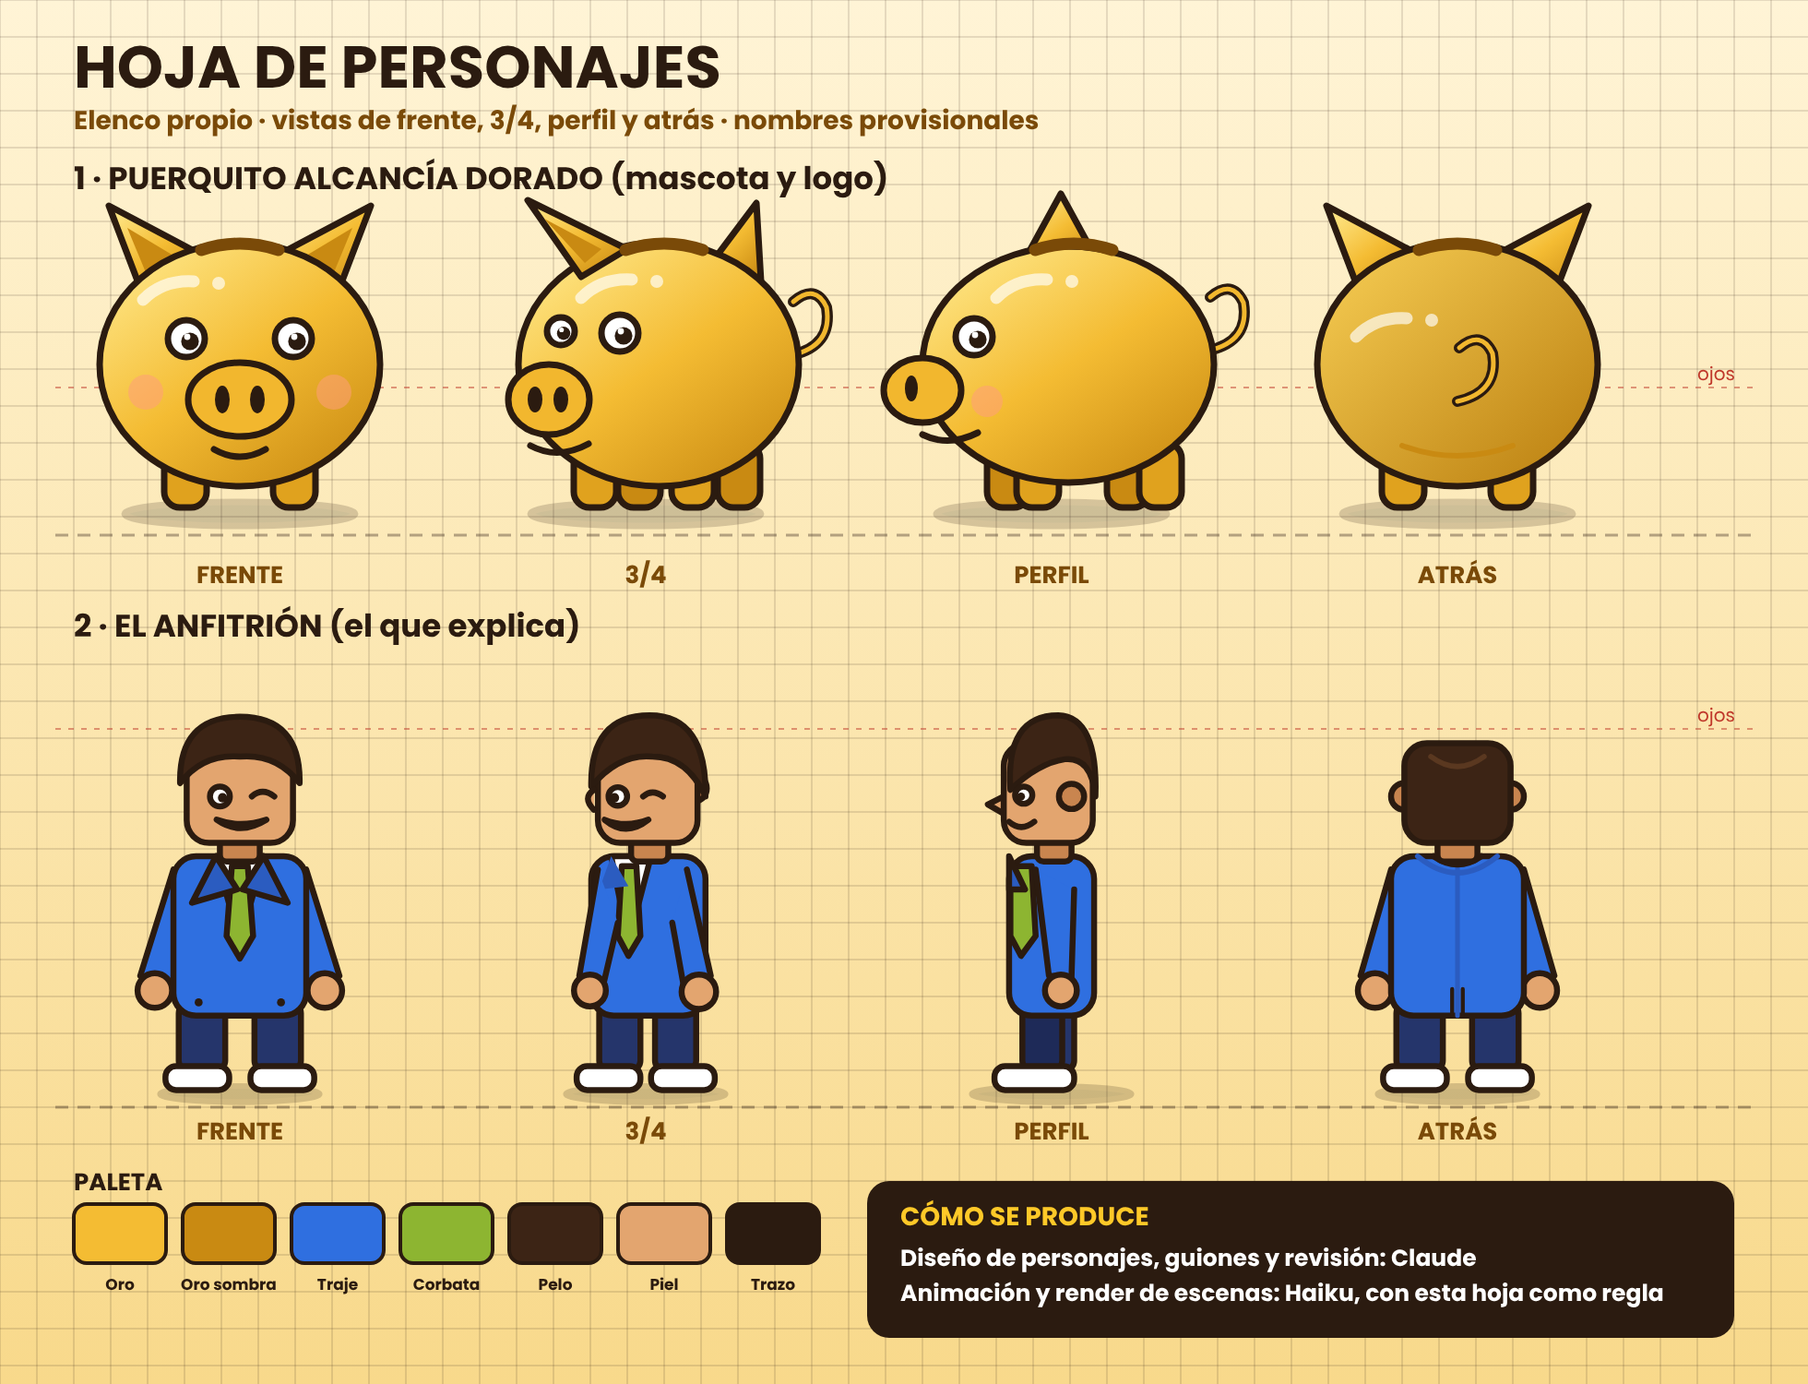
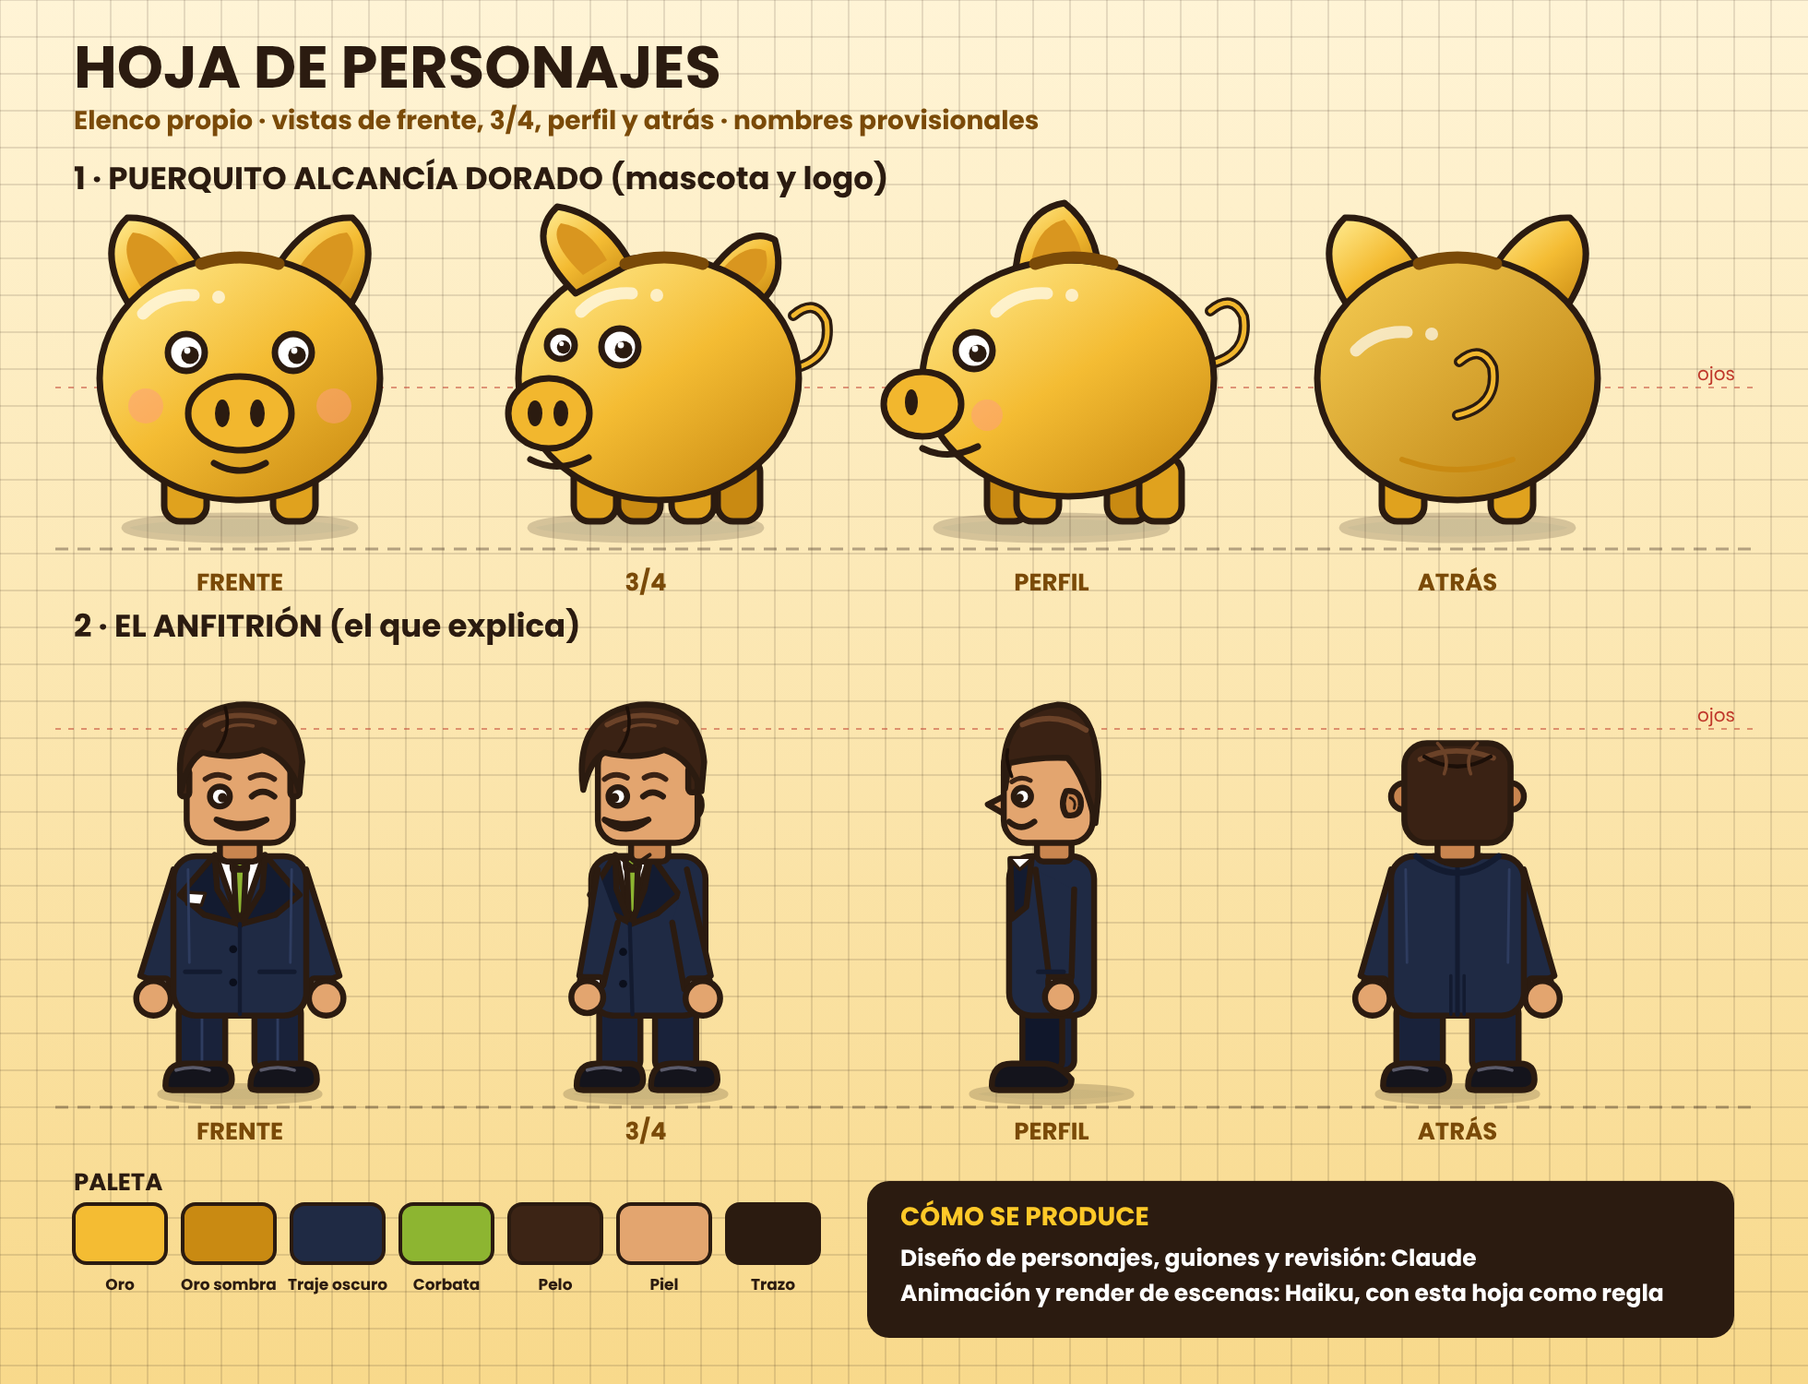
Hoja de personajes v2: orejas, traje oscuro, corbata por dentro, peinado
Claude-Session: https://claude.ai/code/session_011yrhm4PhhmsXz12GSLZFeN

diff --git a/pruebas/identidad/gen_hoja.py b/pruebas/identidad/gen_hoja.py
@@ -16,8 +16,8 @@ def pig(view):
         a(f'<path d="M{x} {y} q{45*flip} -10 {38*flip} -52 q{-12*flip} -26 {-36*flip} -6" fill="none" stroke-width="12"/><path d="M{x} {y} q{45*flip} -10 {38*flip} -52 q{-12*flip} -26 {-36*flip} -6" fill="none" stroke="#F2B72E" stroke-width="5"/>')
     if view=='front':
         leg(-82);leg(36)
-        a('<path d="M-105 -75 L-142 -172 L-40 -118 Z" fill="url(#gold)"/><path d="M-100 -95 L-122 -148 L-72 -118 Z" fill="#C98A12" stroke="none"/>')
-        a('<path d="M105 -75 L142 -172 L40 -118 Z" fill="url(#gold)"/><path d="M100 -95 L122 -148 L72 -118 Z" fill="#C98A12" stroke="none"/>')
+        a('<path d="M-114 -70 Q-160 -138 -122 -174 Q-72 -176 -36 -114 Z" fill="url(#gold)"/><path d="M-104 -94 Q-134 -138 -116 -158 Q-88 -156 -64 -120 Z" fill="#D9961F" stroke="none"/>')
+        a('<path d="M114 -70 Q160 -138 122 -174 Q72 -176 36 -114 Z" fill="url(#gold)"/><path d="M104 -94 Q134 -138 116 -158 Q88 -156 64 -120 Z" fill="#D9961F" stroke="none"/>')
         a('<ellipse cx="0" cy="0" rx="152" ry="132" fill="url(#gold)"/>')
         slot(0); shine(-105,-70)
         a('<circle cx="-102" cy="30" r="19" fill="#FF9E7A" opacity=".55" stroke="none"/><circle cx="102" cy="30" r="19" fill="#FF9E7A" opacity=".55" stroke="none"/>')
@@ -26,10 +26,10 @@ def pig(view):
         a('<path d="M-28 92 Q0 108 28 92" fill="none"/>')
     elif view=='tq':
         leg(-30,True);leg(78,True);leg(-78);leg(28)
-        a('<path d="M60 -95 L120 -175 L125 -90 Z" fill="url(#gold)"/>')
+        a('<path d="M58 -98 Q104 -170 140 -150 Q152 -108 126 -84 Z" fill="url(#gold)"/><path d="M72 -104 Q104 -150 130 -138 Q136 -114 118 -100 Z" fill="#D9961F" stroke="none"/>')
         tail(158,-10)
         a('<ellipse cx="14" cy="0" rx="152" ry="132" fill="url(#gold)"/>')
-        a('<path d="M-70 -95 L-128 -178 L-20 -125 Z" fill="url(#gold)"/><path d="M-66 -110 L-110 -158 L-48 -125 Z" fill="#C98A12" stroke="none"/>')
+        a('<path d="M-76 -92 Q-134 -150 -96 -186 Q-44 -178 -16 -124 Z" fill="url(#gold)"/><path d="M-68 -112 Q-108 -150 -92 -168 Q-62 -164 -42 -128 Z" fill="#D9961F" stroke="none"/>')
         slot(20); shine(-70,-72)
         a('<circle cx="-80" cy="38" r="18" fill="#FF9E7A" opacity=".55" stroke="none"/>')
         eye(-92,-36,15); eye(-28,-34,20)
@@ -38,7 +38,7 @@ def pig(view):
     elif view=='side':
         leg(60,True);leg(-70,True);leg(95);leg(-38)
         tail(170,-15)
-        a('<path d="M-30 -112 L10 -185 L52 -108 Z" fill="url(#gold)"/>')
+        a('<path d="M-40 -106 Q-36 -182 14 -190 Q52 -160 52 -104 Z" fill="url(#gold)"/><path d="M-24 -112 Q-20 -164 14 -172 Q34 -150 36 -112 Z" fill="#D9961F" stroke="none"/>')
         a('<ellipse cx="18" cy="0" rx="158" ry="128" fill="url(#gold)"/>')
         a('<ellipse cx="-140" cy="28" rx="42" ry="35" fill="#F2B72E"/><ellipse cx="-152" cy="26" rx="7" ry="14" fill="'+OL+'" stroke="none"/>')
         slot(24); shine(-60,-72)
@@ -47,7 +47,7 @@ def pig(view):
         a('<path d="M-140 76 Q-112 90 -80 74" fill="none"/>')
     elif view=='back':
         leg(-82);leg(36)
-        a('<path d="M-105 -75 L-142 -172 L-40 -118 Z" fill="url(#gold)"/><path d="M105 -75 L142 -172 L40 -118 Z" fill="url(#gold)"/>')
+        a('<path d="M-114 -70 Q-160 -138 -122 -174 Q-72 -176 -36 -114 Z" fill="url(#gold)"/><path d="M114 -70 Q160 -138 122 -174 Q72 -176 36 -114 Z" fill="url(#gold)"/>')
         a('<ellipse cx="0" cy="0" rx="152" ry="132" fill="url(#gold2)"/>')
         slot(0); shine(-110,-30)
         tail(0,40,1)
@@ -56,64 +56,92 @@ def pig(view):
 
 def man(view):
     s=[];a=s.append
-    SK='#E3A56F';SKD='#C9854F';HR='#3C2415';SU='#2F6FE0';SUD='#2B5CC0';TI='#8DB531';TR='#25356B'
+    SK='#E3A56F';SKD='#C9854F';HR='#3A2214';HRL='#6B4228'
+    SU='#1F2A44';SUD='#131B30';SUL='#2E3C5F';TI='#8DB531';TR='#19223A';SH='#14141C'
     a('<ellipse cx="0" cy="8" rx="120" ry="12" fill="#000" opacity=".18"/>')
-    def shoes(x1,x2,dx=0):
-        a(f'<rect x="{x1}" y="-34" width="96" height="36" rx="16" fill="#fff"/><rect x="{x2}" y="-34" width="96" height="36" rx="16" fill="#fff"/>')
+    def shoes(x1,x2):
+        a(f'<path d="M{x1} -4 Q{x1} -38 {x1+30} -38 L{x1+78} -38 Q{x1+100} -38 {x1+100} -14 Q{x1+100} 2 {x1+80} 2 L{x1+10} 2 Q{x1} 2 {x1} -4Z" fill="{SH}"/>')
+        a(f'<path d="M{x2} -4 Q{x2} -38 {x2+30} -38 L{x2+78} -38 Q{x2+100} -38 {x2+100} -14 Q{x2+100} 2 {x2+80} 2 L{x2+10} 2 Q{x2} 2 {x2} -4Z" fill="{SH}"/>')
+        a(f'<path d="M{x1+16} -28 q26 -8 50 0" stroke="#5A5A6A" stroke-width="5" fill="none"/><path d="M{x2+16} -28 q26 -8 50 0" stroke="#5A5A6A" stroke-width="5" fill="none"/>')
+    def cuff(x,y):
+        a(f'<rect x="{x-17}" y="{y-8}" width="34" height="16" rx="5" fill="#fff"/>')
+    def hair_front(dx=0):
+        a(f'<path d="M{-88+dx} -450 Q{-104+dx} -566 {-4+dx} -578 Q{86+dx} -584 {94+dx} -492 L{90+dx} -448 Q{74+dx} -498 {34+dx} -510 Q{-8+dx} -494 {-56+dx} -506 Q{-78+dx} -494 {-88+dx} -450Z" fill="{HR}"/>')
+        a(f'<path d="M{-52+dx} -548 Q{-6+dx} -574 {52+dx} -552" stroke="{HRL}" stroke-width="8" fill="none"/>')
+        a(f'<path d="M{-26+dx} -540 Q{-8+dx} -552 {20+dx} -546" stroke="{HRL}" stroke-width="5" fill="none"/>')
+        a(f'<path d="M{-22+dx} -574 Q{-12+dx} -540 {-34+dx} -508" stroke="#1C0F08" stroke-width="5" fill="none"/>')
     if view=='front':
         a(f'<rect x="-92" y="-128" width="70" height="100" rx="14" fill="{TR}"/><rect x="22" y="-128" width="70" height="100" rx="14" fill="{TR}"/>')
+        a(f'<path d="M-57 -120 L-57 -34 M57 -120 L57 -34" stroke="{SUL}" stroke-width="4" fill="none"/>')
         shoes(-112,16)
-        a(f'<path d="M-100 -330 L-150 -170 L-100 -150 L-70 -250" fill="{SU}"/><circle cx="-128" cy="-148" r="26" fill="{SK}"/>')
-        a(f'<path d="M100 -330 L150 -170 L100 -150 L70 -250" fill="{SU}"/><circle cx="128" cy="-148" r="26" fill="{SK}"/>')
+        a(f'<path d="M-100 -330 L-150 -170 L-100 -150 L-70 -250" fill="{SU}"/>'); cuff(-124,-158); a(f'<circle cx="-130" cy="-136" r="26" fill="{SK}"/>')
+        a(f'<path d="M100 -330 L150 -170 L100 -150 L70 -250" fill="{SU}"/>'); cuff(124,-158); a(f'<circle cx="130" cy="-136" r="26" fill="{SK}"/>')
         a(f'<rect x="-100" y="-350" width="200" height="240" rx="34" fill="{SU}"/>')
-        a(f'<path d="M-36 -350 L0 -220 L36 -350 Z" fill="#fff"/><path d="M-12 -335 L12 -335 L20 -230 L0 -196 L-20 -230 Z" fill="{TI}"/>')
-        a(f'<path d="M-36 -350 L-72 -280 L-4 -300 Z" fill="{SUD}"/><path d="M36 -350 L72 -280 L4 -300 Z" fill="{SUD}"/>')
-        a(f'<circle cx="-62" cy="-130" r="6" fill="{OL}" stroke="none"/><circle cx="62" cy="-130" r="6" fill="{OL}" stroke="none"/>')
+        a(f'<path d="M-36 -350 L0 -246 L36 -350 Z" fill="#fff"/>')
+        a(f'<rect x="-11" y="-348" width="22" height="22" rx="6" fill="{TI}"/><path d="M-9 -330 L9 -330 L6 -266 L0 -254 L-6 -266 Z" fill="{TI}"/>')
+        a(f'<path d="M-38 -352 L-90 -292 L-54 -262 L-2 -248 L-34 -300 Z" fill="{SUD}"/><path d="M38 -352 L90 -292 L54 -262 L2 -248 L34 -300 Z" fill="{SUD}"/>')
+        a(f'<path d="M0 -248 L0 -112" stroke="{SUD}" stroke-width="6" fill="none"/><circle cx="-10" cy="-210" r="6" fill="#0B0F1C" stroke="none"/><circle cx="-10" cy="-160" r="6" fill="#0B0F1C" stroke="none"/>')
+        a(f'<path d="M-82 -176 L-30 -176" stroke="{SUD}" stroke-width="7" fill="none"/><path d="M30 -176 L82 -176" stroke="{SUD}" stroke-width="7" fill="none"/>')
+        a(f'<path d="M-82 -296 L-52 -294 L-58 -276 L-80 -278 Z" fill="#fff" stroke-width="5"/>')
+        a(f'<path d="M-78 -330 L-76 -190 M78 -330 L76 -190" stroke="{SUL}" stroke-width="4" fill="none"/>')
         a(f'<rect x="-30" y="-382" width="60" height="40" rx="10" fill="{SKD}"/>')
+        a(f'<path d="M-36 -352 L0 -332 L36 -352" fill="none" stroke-width="6"/>')
         a(f'<rect x="-80" y="-520" width="160" height="150" rx="34" fill="{SK}"/>')
-        a(f'<path d="M-90 -460 Q-92 -560 0 -560 Q92 -560 90 -460 Q55 -505 0 -500 Q-55 -505 -90 -460Z" fill="{HR}"/>')
+        a(f'<rect x="-90" y="-482" width="14" height="42" rx="6" fill="{HR}"/><rect x="76" y="-482" width="14" height="42" rx="6" fill="{HR}"/>')
+        hair_front()
+        a(f'<path d="M-52 -466 q18 -12 36 -2" fill="none" stroke="{HR}" stroke-width="8"/><path d="M16 -468 q18 -10 36 2" fill="none" stroke="{HR}" stroke-width="8"/>')
         a(f'<circle cx="-30" cy="-440" r="15" fill="#fff"/><circle cx="-26" cy="-438" r="7" fill="{OL}" stroke="none"/><path d="M18 -440 q16 -14 34 0" fill="none"/>')
         a(f'<path d="M-35 -405 Q0 -380 40 -405 Q0 -392 -35 -405Z" fill="#fff"/>')
     elif view=='tq':
         a(f'<rect x="-70" y="-128" width="62" height="100" rx="14" fill="{TR}"/><rect x="14" y="-128" width="62" height="100" rx="14" fill="{TR}"/>')
         shoes(-104,8)
         a(f'<rect x="-82" y="-350" width="172" height="240" rx="34" fill="{SU}"/>')
-        a(f'<path d="M-52 -350 L-26 -220 L8 -350 Z" fill="#fff"/><path d="M-36 -335 L-14 -335 L-8 -230 L-26 -200 L-42 -230 Z" fill="{TI}"/>')
-        a(f'<path d="M-52 -350 L-70 -300 L-26 -305 Z" fill="{SUD}" stroke="none"/>')
-        a(f'<path d="M62 -330 L98 -170 L58 -150 L40 -250" fill="{SU}"/><circle cx="80" cy="-146" r="26" fill="{SK}"/>')
-        a(f'<path d="M-72 -330 L-100 -170 L-64 -156 L-42 -250" fill="{SU}"/><circle cx="-84" cy="-148" r="24" fill="{SK}"/>')
+        a(f'<path d="M-44 -350 L-24 -250 L6 -350 Z" fill="#fff"/>')
+        a(f'<rect x="-30" y="-348" width="20" height="20" rx="6" fill="{TI}"/><path d="M-28 -330 L-12 -330 L-14 -268 L-20 -256 L-26 -268 Z" fill="{TI}"/>')
+        a(f'<path d="M-46 -352 L-84 -292 L-52 -264 L-24 -250 L-44 -300 Z" fill="{SUD}"/><path d="M8 -352 L50 -292 L18 -264 L-22 -248 L-2 -300 Z" fill="{SUD}"/>')
+        a(f'<path d="M-24 -248 L-20 -112" stroke="{SUD}" stroke-width="6" fill="none"/><circle cx="-34" cy="-206" r="6" fill="#0B0F1C" stroke="none"/><circle cx="-34" cy="-158" r="6" fill="#0B0F1C" stroke="none"/>')
+        a(f'<path d="M62 -330 L98 -170 L58 -150 L40 -250" fill="{SU}"/>'); cuff(80,-158); a(f'<circle cx="86" cy="-136" r="26" fill="{SK}"/>')
+        a(f'<path d="M-72 -330 L-100 -170 L-64 -156 L-42 -250" fill="{SU}"/>'); cuff(-82,-160); a(f'<circle cx="-88" cy="-138" r="24" fill="{SK}"/>')
         a(f'<rect x="-22" y="-382" width="56" height="40" rx="10" fill="{SKD}"/>')
-        a(f'<circle cx="72" cy="-452" r="20" fill="{SKD}"/>')
+        a(f'<path d="M-44 -352 L-20 -334 L6 -352" fill="none" stroke-width="6"/>')
+        a(f'<path d="M64 -444 q22 -4 20 20 q-2 20 -22 14Z" fill="{SKD}"/>')
         a(f'<rect x="-72" y="-520" width="150" height="150" rx="34" fill="{SK}"/>')
-        a(f'<path d="M-82 -455 Q-84 -562 6 -562 Q92 -562 90 -440 Q62 -500 10 -500 Q-40 -505 -82 -455Z" fill="{HR}"/>')
+        a(f'<rect x="64" y="-486" width="14" height="40" rx="6" fill="{HR}"/>')
+        hair_front(-6)
+        a(f'<path d="M-62 -466 q16 -12 34 -2" fill="none" stroke="{HR}" stroke-width="8"/><path d="M-2 -468 q16 -10 32 2" fill="none" stroke="{HR}" stroke-width="8"/>')
         a(f'<circle cx="-42" cy="-440" r="14" fill="#fff"/><circle cx="-47" cy="-438" r="7" fill="{OL}" stroke="none"/><path d="M-4 -440 q14 -12 30 0" fill="none"/>')
         a(f'<path d="M-62 -405 Q-30 -378 4 -405 Q-30 -392 -62 -405Z" fill="#fff"/>')
-        a(f'<path d="M-78 -450 q-18 12 0 30" fill="{SK}"/>')
     elif view=='side':
-        a(f'<rect x="-28" y="-128" width="62" height="100" rx="14" fill="{TR}"/><rect x="-44" y="-128" width="60" height="100" rx="14" fill="#1E2A58"/>')
-        a(f'<rect x="-86" y="-34" width="120" height="36" rx="16" fill="#fff"/>')
+        a(f'<rect x="-28" y="-128" width="62" height="100" rx="14" fill="{TR}"/><rect x="-44" y="-128" width="60" height="100" rx="14" fill="#10172B"/>')
+        a(f'<path d="M-90 -4 Q-90 -38 -60 -38 L-12 -38 Q10 -38 30 -14 Q30 2 10 2 L-80 2 Q-90 2 -90 -4Z" fill="{SH}"/>')
         a(f'<rect x="-64" y="-350" width="128" height="240" rx="34" fill="{SU}"/>')
-        a(f'<path d="M-62 -335 L-30 -335 L-24 -230 L-46 -200 L-62 -230 Z" fill="{TI}"/><path d="M-64 -350 L-40 -300 L-64 -300 Z" fill="{SUD}"/>')
-        a(f'<path d="M-24 -330 L-4 -170 L30 -168 L34 -300" fill="{SU}"/><circle cx="14" cy="-148" r="24" fill="{SK}"/>')
+        a(f'<path d="M-62 -346 L-60 -256 L-38 -274 L-30 -346 Z" fill="{SUD}"/>')
+        a(f'<path d="M-62 -346 L-48 -330 L-30 -346" fill="#fff" stroke-width="5"/>')
+        a(f'<path d="M-24 -330 L-4 -170 L30 -168 L34 -300" fill="{SU}"/>'); cuff(12,-160); a(f'<circle cx="14" cy="-138" r="24" fill="{SK}"/>')
+        a(f'<path d="M-20 -176 L18 -176" stroke="{SUD}" stroke-width="7" fill="none"/>')
         a(f'<rect x="-22" y="-382" width="52" height="40" rx="10" fill="{SKD}"/>')
         a(f'<path d="M-72 -440 L-96 -428 L-72 -414 Z" fill="{SK}"/>')
         a(f'<rect x="-72" y="-520" width="134" height="150" rx="34" fill="{SK}"/>')
-        a(f'<path d="M-62 -450 Q-70 -562 10 -562 Q70 -560 66 -440 Q60 -500 20 -496 Q-20 -490 -62 -450Z" fill="{HR}"/>')
-        a(f'<circle cx="30" cy="-440" r="19" fill="{SKD}"/>')
-        a(f'<circle cx="-42" cy="-442" r="13" fill="#fff"/><circle cx="-46" cy="-440" r="6" fill="{OL}" stroke="none"/>')
+        a(f'<path d="M-70 -452 Q-84 -566 8 -578 Q76 -580 70 -440 L66 -400 Q50 -470 24 -498 Q-20 -500 -64 -490Z" fill="{HR}"/>')
+        a(f'<path d="M-44 -548 Q4 -570 52 -540" stroke="{HRL}" stroke-width="8" fill="none"/>')
+        a(f'<path d="M-60 -470 Q-70 -496 -66 -510" stroke="#1C0F08" stroke-width="5" fill="none"/>')
+        a(f'<path d="M22 -448 q24 -2 22 22 q-2 18 -22 14 q-10 -16 0 -36Z" fill="{SKD}"/><path d="M28 -438 q10 4 6 16" fill="none" stroke-width="4"/>')
+        a(f'<circle cx="-44" cy="-440" r="13" fill="#fff"/><circle cx="-48" cy="-438" r="6" fill="{OL}" stroke="none"/>')
         a(f'<path d="M-64 -402 Q-46 -386 -26 -402" fill="none"/>')
+        a(f'<path d="M-60 -462 q14 -10 28 -2" fill="none" stroke="{HR}" stroke-width="7"/>')
     else:
         a(f'<rect x="-92" y="-128" width="70" height="100" rx="14" fill="{TR}"/><rect x="22" y="-128" width="70" height="100" rx="14" fill="{TR}"/>')
         shoes(-112,16)
-        a(f'<path d="M-100 -330 L-146 -170 L-104 -150 L-70 -250" fill="{SU}"/><circle cx="-124" cy="-148" r="26" fill="{SK}"/>')
-        a(f'<path d="M100 -330 L146 -170 L104 -150 L70 -250" fill="{SU}"/><circle cx="124" cy="-148" r="26" fill="{SK}"/>')
+        a(f'<path d="M-100 -330 L-146 -170 L-104 -150 L-70 -250" fill="{SU}"/>'); cuff(-124,-158); a(f'<circle cx="-128" cy="-136" r="26" fill="{SK}"/>')
+        a(f'<path d="M100 -330 L146 -170 L104 -150 L70 -250" fill="{SU}"/>'); cuff(124,-158); a(f'<circle cx="128" cy="-136" r="26" fill="{SK}"/>')
         a(f'<rect x="-100" y="-350" width="200" height="240" rx="34" fill="{SU}"/>')
-        a(f'<path d="M0 -350 L0 -110" stroke="{SUD}" stroke-width="7" fill="none"/><path d="M-8 -150 L-8 -110 M8 -150 L8 -110" stroke-width="6" fill="none"/>')
-        a(f'<path d="M-36 -350 Q0 -325 36 -350" fill="#fff"/><path d="M-60 -350 Q0 -300 60 -350" fill="none" stroke="{SUD}" stroke-width="8"/>')
+        a(f'<path d="M0 -350 L0 -112" stroke="{SUD}" stroke-width="7" fill="none"/><path d="M-10 -170 L-10 -112 M10 -170 L10 -112" stroke="{SUD}" stroke-width="5" fill="none"/>')
+        a(f'<path d="M-78 -330 L-76 -190 M78 -330 L76 -190" stroke="{SUL}" stroke-width="4" fill="none"/>')
+        a(f'<path d="M-36 -350 Q0 -325 36 -350" fill="#fff"/><path d="M-62 -350 Q0 -300 62 -350" fill="none" stroke="{SUD}" stroke-width="9"/>')
         a(f'<rect x="-30" y="-382" width="60" height="40" rx="10" fill="{SKD}"/>')
         a(f'<circle cx="-80" cy="-440" r="20" fill="{SKD}"/><circle cx="80" cy="-440" r="20" fill="{SKD}"/>')
         a(f'<rect x="-80" y="-520" width="160" height="150" rx="34" fill="{HR}"/>')
-        a(f'<path d="M-40 -500 Q0 -470 40 -500" stroke="#5A3820" stroke-width="8" fill="none"/>')
+        a(f'<path d="M-56 -496 Q-6 -520 54 -498" stroke="{HRL}" stroke-width="8" fill="none"/><path d="M-50 -500 Q0 -470 50 -500" stroke="#1C0F08" stroke-width="6" fill="none"/><path d="M-30 -520 Q-10 -500 -20 -474 M30 -520 Q10 -500 20 -474" stroke="{HRL}" stroke-width="5" fill="none"/>')
     return ''.join(s)
 
 cols=[260,700,1140,1580]
@@ -134,19 +162,19 @@ out.append('</g>')
 out.append('<text x="80" y="95" font-family="Poppins,Arial,sans-serif" font-weight="900" font-size="64" fill="#2B1B10">HOJA DE PERSONAJES</text>')
 out.append('<text x="80" y="140" font-family="Poppins,Arial,sans-serif" font-weight="600" font-size="28" fill="#7A4A08">Elenco propio · vistas de frente, 3/4, perfil y atrás · nombres provisionales</text>')
 # guias
-for y,lab in [(570,'SUELO'),(1190,'SUELO')]:
+for y,lab in [(585,'SUELO'),(1190,'SUELO')]:
     out.append(f'<line x1="60" y1="{y+10}" x2="1900" y2="{y+10}" stroke="#2B1B10" stroke-opacity=".35" stroke-width="3" stroke-dasharray="14 10"/>')
 out.append('<line x1="60" y1="420" x2="1900" y2="420" stroke="#C0392B" stroke-opacity=".5" stroke-width="2" stroke-dasharray="6 8"/><text x="1840" y="412" font-size="20" fill="#C0392B" font-family="Poppins,Arial">ojos</text>')
 out.append('<line x1="60" y1="790" x2="1900" y2="790" stroke="#C0392B" stroke-opacity=".5" stroke-width="2" stroke-dasharray="6 8"/><text x="1840" y="782" font-size="20" fill="#C0392B" font-family="Poppins,Arial">ojos</text>')
 out.append('<text x="80" y="205" font-family="Poppins,Arial" font-weight="800" font-size="34" fill="#2B1B10">1 · PUERQUITO ALCANCÍA DORADO (mascota y logo)</text>')
 out.append('<text x="80" y="690" font-family="Poppins,Arial" font-weight="800" font-size="34" fill="#2B1B10">2 · EL ANFITRIÓN (el que explica)</text>')
 for c,v,n in zip(cols,views,names):
-    out.append(f'<g transform="translate({c},{395}) scale(1.0)" stroke="#2B1B10" stroke-width="7" stroke-linejoin="round" stroke-linecap="round">{pig(v)}</g>')
-    out.append(f'<text x="{c}" y="632" text-anchor="middle" font-family="Poppins,Arial" font-weight="700" font-size="26" fill="#7A4A08">{n}</text>')
+    out.append(f'<g transform="translate({c},{410}) scale(1.0)" stroke="#2B1B10" stroke-width="7" stroke-linejoin="round" stroke-linecap="round">{pig(v)}</g>')
+    out.append(f'<text x="{c}" y="640" text-anchor="middle" font-family="Poppins,Arial" font-weight="700" font-size="26" fill="#7A4A08">{n}</text>')
     out.append(f'<g transform="translate({c},{1180}) scale(.72)" stroke="#2B1B10" stroke-width="9" stroke-linejoin="round" stroke-linecap="round">{man(v)}</g>')
     out.append(f'<text x="{c}" y="1235" text-anchor="middle" font-family="Poppins,Arial" font-weight="700" font-size="26" fill="#7A4A08">{n}</text>')
 # paleta
-pal=[('#F4BC33','Oro'),('#C98A12','Oro sombra'),('#2F6FE0','Traje'),('#8DB531','Corbata'),('#3C2415','Pelo'),('#E3A56F','Piel'),('#2B1B10','Trazo')]
+pal=[('#F4BC33','Oro'),('#C98A12','Oro sombra'),('#1F2A44','Traje oscuro'),('#8DB531','Corbata'),('#3C2415','Pelo'),('#E3A56F','Piel'),('#2B1B10','Trazo')]
 out.append('<text x="80" y="1290" font-family="Poppins,Arial" font-weight="800" font-size="26" fill="#2B1B10">PALETA</text>')
 for i,(c,n) in enumerate(pal):
     x=80+i*118
